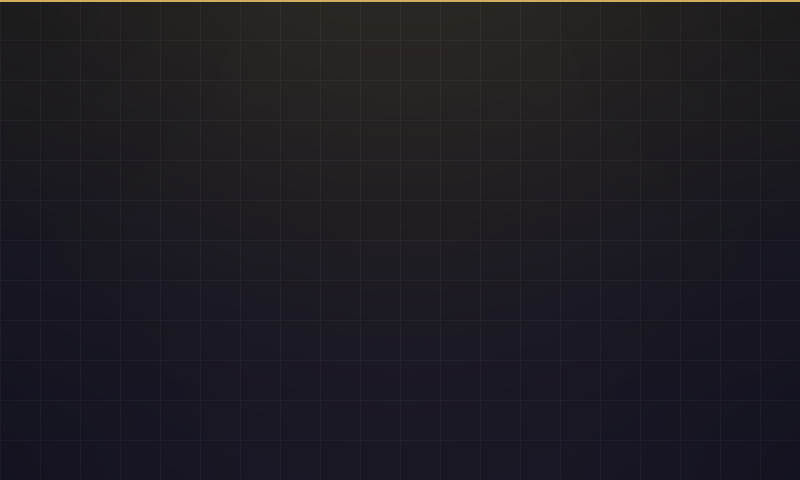
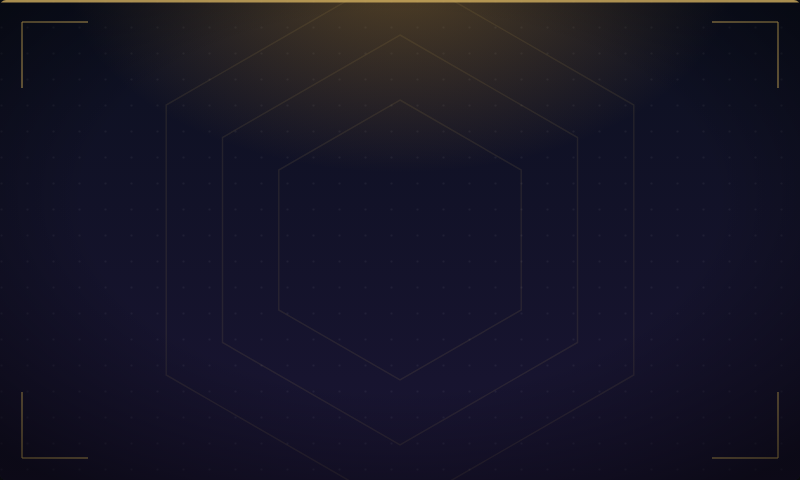
Fonds d'écran en SVG (maquette artifact + rasterisation)
design/backgrounds.html (style réglable) + design/rasterize.py (HTML->PNG via
navigateur headless, outil dev). Remplace les fonds procéduraux par un style
hextech sombre (hexagones, crochets d'angle, halo, grille, vignette).

diff --git a/design/backgrounds.html b/design/backgrounds.html
@@ -1,0 +1,103 @@
+<!DOCTYPE html>
+<html lang="fr">
+<head>
+<meta charset="utf-8">
+<title>Maquette des fonds — écran 5"</title>
+<style>
+  body { background:#0b0d12; color:#cfd6e4; font-family:system-ui, sans-serif; margin:24px; }
+  h1 { font-weight:600; font-size:20px; }
+  p { color:#8a93a6; max-width:820px; }
+  .panel { margin:22px 0; }
+  .label { font-size:13px; color:#aab3c6; margin-bottom:6px; letter-spacing:.5px; }
+  svg { display:block; border-radius:6px; box-shadow:0 4px 24px rgba(0,0,0,.5); }
+</style>
+</head>
+<body>
+  <h1>Maquette des fonds (800×480)</h1>
+  <p>
+    Trois fonds pour les modes <b>défaut</b>, <b>sélection</b> et <b>partie</b>.
+    Pour ajuster : modifie l'objet <code>CONFIG</code> en haut du script
+    (couleurs, intensité du halo/vignette, ornements). La rasterisation en PNG
+    (<code>design/rasterize.py</code>) produit les fichiers de
+    <code>pi_display/assets/</code>.
+  </p>
+
+  <div class="panel"><div class="label">DÉFAUT (default.png)</div>
+    <svg id="bg-default" width="800" height="480" viewBox="0 0 800 480"></svg></div>
+  <div class="panel"><div class="label">SÉLECTION (champselect.png)</div>
+    <svg id="bg-champselect" width="800" height="480" viewBox="0 0 800 480"></svg></div>
+  <div class="panel"><div class="label">PARTIE (lol.png)</div>
+    <svg id="bg-lol" width="800" height="480" viewBox="0 0 800 480"></svg></div>
+
+<script>
+// ----- RÉGLAGES (ajuste ici) ---------------------------------------------
+const CONFIG = {
+  default:     { top:"#0d1526", bottom:"#152140", glow:"#4f84d8", line:"#5f86c0", glowA:0.40, vigA:0.55 },
+  champselect: { top:"#0c1020", bottom:"#1a1533", glow:"#c8922f", line:"#d2af5f", glowA:0.38, vigA:0.55 },
+  lol:         { top:"#0a0f1c", bottom:"#17101c", glow:"#b84a3a", line:"#b4675a", glowA:0.34, vigA:0.58 },
+};
+const HEX = { show:true, radii:[270,205,140], opacity:0.10 };
+const DOTS = { show:true, step:26, opacity:0.05 };
+const BRACKETS = { show:true, inset:22, arm:66, width:2 };
+// -------------------------------------------------------------------------
+
+function hexPath(cx, cy, r) {
+  let pts = [];
+  for (let i=0; i<6; i++) {
+    const a = Math.PI/180 * (60*i - 90);       // pointy-top
+    pts.push([cx + r*Math.cos(a), cy + r*Math.sin(a)]);
+  }
+  return "M" + pts.map(p => p[0].toFixed(1)+","+p[1].toFixed(1)).join("L") + "Z";
+}
+
+function buildSVG(key, c) {
+  const W=800, H=480, g=key;
+  const defs = `
+    <defs>
+      <linearGradient id="grad-${g}" x1="0" y1="0" x2="0" y2="1">
+        <stop offset="0" stop-color="${c.top}"/><stop offset="1" stop-color="${c.bottom}"/>
+      </linearGradient>
+      <radialGradient id="glow-${g}" cx="50%" cy="-6%" r="70%">
+        <stop offset="0" stop-color="${c.glow}" stop-opacity="${c.glowA}"/>
+        <stop offset="60%" stop-color="${c.glow}" stop-opacity="0"/>
+      </radialGradient>
+      <radialGradient id="vig-${g}" cx="50%" cy="42%" r="72%">
+        <stop offset="55%" stop-color="#000" stop-opacity="0"/>
+        <stop offset="100%" stop-color="#000" stop-opacity="${c.vigA}"/>
+      </radialGradient>
+      <pattern id="dots-${g}" width="${DOTS.step}" height="${DOTS.step}" patternUnits="userSpaceOnUse">
+        <circle cx="1.5" cy="1.5" r="1.1" fill="#ffffff" opacity="${DOTS.opacity}"/>
+      </pattern>
+    </defs>`;
+
+  const hexes = HEX.show ? `<g fill="none" stroke="${c.line}" stroke-opacity="${HEX.opacity}" stroke-width="1.5">`
+      + HEX.radii.map(r => `<path d="${hexPath(400,240,r)}"/>`).join("") + `</g>` : "";
+  const dots = DOTS.show ? `<rect width="${W}" height="${H}" fill="url(#dots-${g})"/>` : "";
+
+  let brackets = "";
+  if (BRACKETS.show) {
+    const i=BRACKETS.inset, a=BRACKETS.arm, w=W, h=H;
+    const L = (x1,y1,x2,y2) => `<line x1="${x1}" y1="${y1}" x2="${x2}" y2="${y2}"/>`;
+    brackets = `<g stroke="${c.line}" stroke-opacity="0.55" stroke-width="${BRACKETS.width}">`
+      + L(i,i,i+a,i)+L(i,i,i,i+a)                       // haut-gauche
+      + L(w-i,i,w-i-a,i)+L(w-i,i,w-i,i+a)               // haut-droit
+      + L(i,h-i,i+a,h-i)+L(i,h-i,i,h-i-a)               // bas-gauche
+      + L(w-i,h-i,w-i-a,h-i)+L(w-i,h-i,w-i,h-i-a)       // bas-droit
+      + `</g>`;
+  }
+
+  return defs
+    + `<rect width="${W}" height="${H}" fill="url(#grad-${g})"/>`
+    + dots + hexes
+    + `<rect width="${W}" height="${H}" fill="url(#glow-${g})"/>`
+    + brackets
+    + `<rect width="${W}" height="${H}" fill="url(#vig-${g})"/>`
+    + `<rect x="0" y="0" width="${W}" height="2.5" fill="${c.line}" opacity="0.8"/>`;
+}
+
+for (const key of Object.keys(CONFIG)) {
+  document.getElementById("bg-"+key).innerHTML = buildSVG(key, CONFIG[key]);
+}
+</script>
+</body>
+</html>

diff --git a/design/rasterize.py b/design/rasterize.py
@@ -1,0 +1,42 @@
+"""Rasterise les fonds SVG de backgrounds.html en PNG 800x480.
+
+Usage :  python design/rasterize.py [--preview]
+  (défaut) écrit pi_display/assets/{default,champselect,lol}.png
+  --preview : écrit aussi design/_preview_<mode>.png pour inspection
+
+Nécessite : pip install playwright  &&  python -m playwright install chromium
+"""
+
+from __future__ import annotations
+
+import sys
+from pathlib import Path
+
+from playwright.sync_api import sync_playwright
+
+HERE = Path(__file__).resolve().parent
+HTML = (HERE / "backgrounds.html").as_uri()
+ASSETS = HERE.parent / "pi_display" / "assets"
+MODES = ["default", "champselect", "lol"]
+
+
+def main():
+    preview = "--preview" in sys.argv
+    ASSETS.mkdir(parents=True, exist_ok=True)
+    with sync_playwright() as p:
+        browser = p.chromium.launch()
+        page = browser.new_page(device_scale_factor=1)
+        page.goto(HTML)
+        page.wait_for_timeout(200)  # laisse le script générer les SVG
+        for mode in MODES:
+            el = page.locator(f"#bg-{mode}")
+            el.screenshot(path=str(ASSETS / f"{mode}.png"))
+            if preview:
+                el.screenshot(path=str(HERE / f"_preview_{mode}.png"))
+            print(f"  {mode}.png écrit")
+        browser.close()
+    print(f"Fonds rasterisés dans {ASSETS}")
+
+
+if __name__ == "__main__":
+    main()
